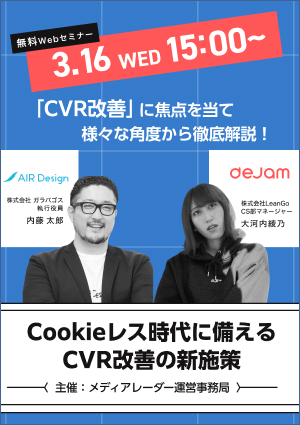
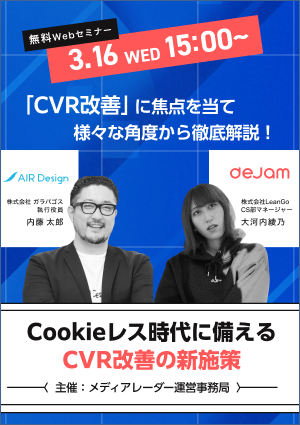
ID-19 セミナー一覧追加 画像更新

diff --git a/seminar/index.html b/seminar/index.html
@@ -72,7 +72,7 @@
 		<div class="portrait-list flex-12">
 			<div class="col-4">
 				<a class="deco-none" href="https://media-radar.jp/seminar678.html?inb=1002930" target="_blank">
-					<p><img src="/seminar/img/20220316-thumb.jpg" alt="Cookieレス時代に備えるCVR改善の新施策" width="300" height="425"></p>
+					<p><img src="/seminar/img/20220316-thumb.jpg" srcset="/seminar/img/20220316-thumb@2x.jpg 2x, /seminar/img/20220316-thumb@3x.jpg 3x" alt="Cookieレス時代に備えるCVR改善の新施策" width="300" height="425"></p>
 					<p class="mt-24">2022.03.16 (水) 15:00〜</p>
 					<h2 class="mt-04 f-20 bold">Cookieレス時代に備えるCVR改善の新施策</h2>
 				</a>
